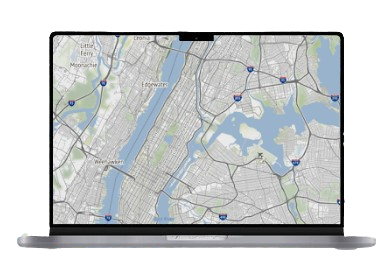
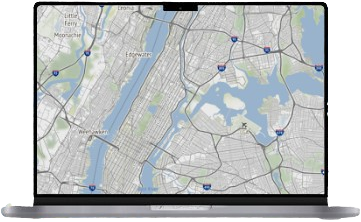
34

diff --git a/styles.css b/styles.css
@@ -27,7 +27,7 @@ header, footer {
   margin-top: 25px;
   margin-left: 8px;
   height: 50vw; 
-  max-height: 25px;
+  max-height: 45px;
 } 
 
 article {
@@ -36,9 +36,11 @@ article {
 
 footer {
   /* background: white;  */
-  display: grid;
-  grid-template-columns: 1fr 1fr 1fr 1fr 1fr;
+  display: flex;
+  align-items: center;
+  justify-content: flex-start;
 }
+
 
 .imagineAnimata {
   background-size: 100% auto; 
@@ -95,9 +97,10 @@ footer {
 }
 .grid2{
   display: grid;
-  grid-template-columns: 400px 400px;
+  grid-template-columns: 450px 450px;
   align-items: center;
   justify-content: center;  
+
 }
 
 .grid2_2{
@@ -124,8 +127,8 @@ footer {
 }
 
 .maps{
-  width: auto;
-  height: 400px;
+  width: 400px;
+  height: auto;
 }
 
 .secTitle{
@@ -136,13 +139,13 @@ footer {
 
 .grid3{
   display: grid;
-  grid-template-columns: 350px 350px 350px;
+  grid-template-columns: 1fr 1fr 1fr; 
   align-items: center;
   justify-content: center; 
 }
 
 .img3grid{
-  width: 300px; 
+  width: 290px; 
   height: auto; 
   max-width: 1000px;
   justify-content: center;
@@ -280,6 +283,12 @@ footer {
   }
 }
 
+.author {
+  display: none;
+  color: white;
+  font-size: 2rem;
+}
+
 .footer-image {
   height: 20vw;
   width: auto;
@@ -289,6 +298,20 @@ footer {
 
 .footer-image:hover {
   transform: translateX(385%); 
+}
+
+.footer-image:hover + .author {
+  display: block;
+  animation: schimbaOpacitatea 3s ease-in;
+}
+
+@keyframes schimbaOpacitatea {
+  0% {
+      opacity: 0;
+  }
+  100% {
+      opacity: 1;
+  }
 }
 
 .footer-image::before {
@@ -305,7 +328,7 @@ footer {
 }
 
 
-@media (max-width: 768px) {
+@media (max-width: 900px) {
 
   .carusel{
     width: 80vw;

diff --git a/index.html b/index.html
@@ -100,7 +100,8 @@
   </main>
   <footer>
       <img class="footer-image" src="Images\programmer.png" alt="Logo">
-     <!-- <p>© 2021 Applicability of graphs IRL  </p>
+      <p class="author">&copy; Sincari Sebastian George</p>
+      <!-- <p>© 2021 Applicability of graphs IRL  </p>
     <p>Instagram</p>  -->
   </footer>
 </body>
